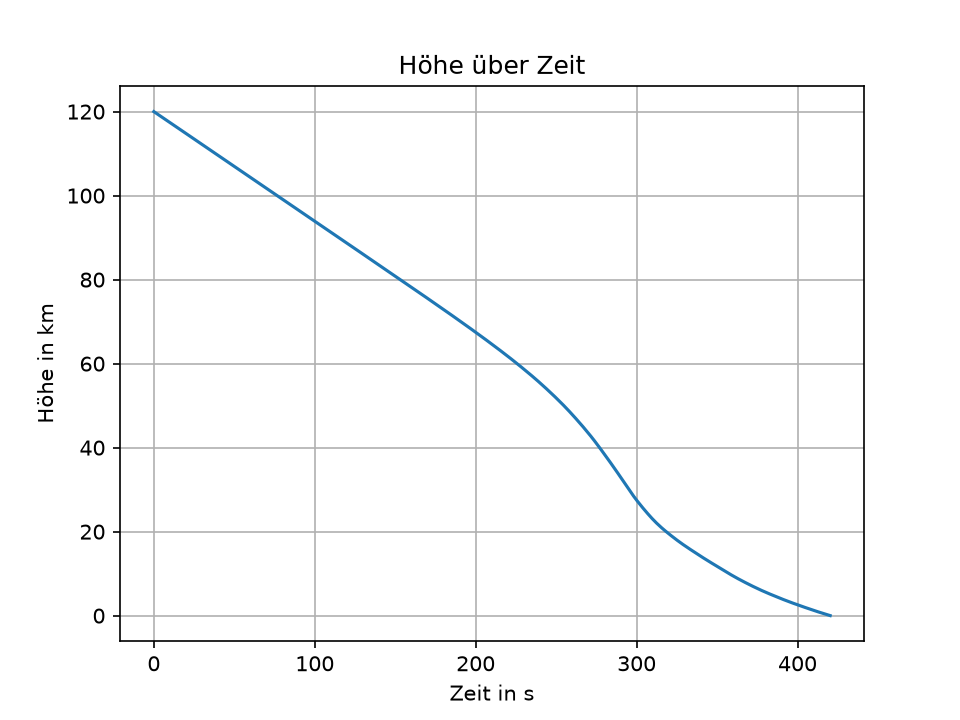
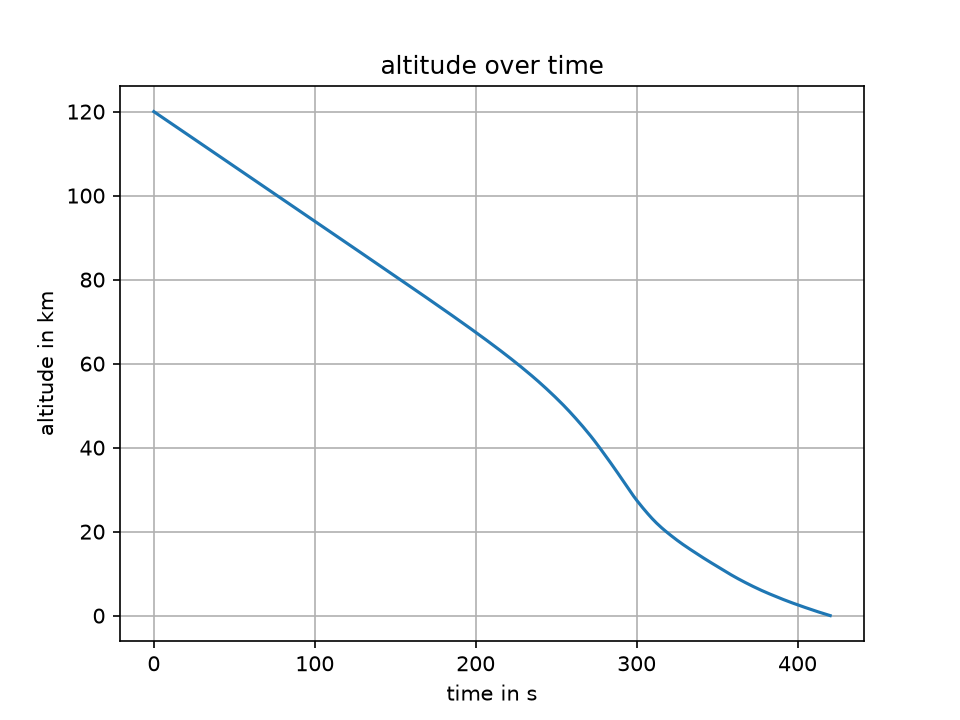
Add README, English plot labels, rename images

Changed region(s): [[0.4062, 0.0611, 0.625, 0.1222], [0.0312, 0.3972, 0.0625, 0.6111], [0.4688, 0.9472, 0.5625, 0.9778]]

diff --git a/titan/titan_auswerten.py b/titan/titan_auswerten.py
@@ -7,11 +7,11 @@ höhe = df["Altitude"] / 1000
 time = df["Time"]
 
 plt.plot(time, höhe)
-plt.xlabel("Zeit in s")
-plt.ylabel("Höhe in km")
-plt.title("Höhe über Zeit")
+plt.xlabel("time in s")
+plt.ylabel("altitude in km")
+plt.title("altitude over time")
 plt.grid(True)
-plt.savefig("Hoehe_ueber_zeit.png", dpi=150)
+plt.savefig("altitude_over_time.png", dpi=150)
 plt.show()
 
 
@@ -20,11 +20,10 @@ temperature = df["Temperature"]
 
 
 plt.plot(time, temperature)
-plt.axhline(906, color="red", linestyle="--", label="Schmelzpunkt")
-plt.xlabel("Zeiten [s]")
-plt.xlabel("Zeit in s")
-plt.ylabel("Temp in K")
-plt.title("temp über Zeit")
+plt.axhline(906, color="red", linestyle="--", label="Melting Point")
+plt.xlabel("time in s")
+plt.ylabel("temp in K")
+plt.title("temp over time")
 plt.grid(True)
 plt.legend()
 plt.savefig("Temperature_of_the_Monocoque_over_time.png", dpi=150)

diff --git a/README.md b/README.md
@@ -1,0 +1,75 @@
+# A Monocoque re-entering Earth's Atmosphere
+# A Test Run of CFD in OpenFOAM, DSMC with SPARTA and TITAN on a Formula Student Monocoque
+
+This is a simulation series to learn and understand different forms of fluid simulation methods.
+The study shows what happens to a monocoque on re-entry, where the limits of CFD are, where DSMC starts and how TITAN works with the combination of CFD and DSMC.
+The timeframe to conduct this project was 5 days, starting on Monday the 12th.
+
+![Mach number at 40 km](images/openfoam_racecar_mach.png)
+
+## Overview:
+
+1. Basics of OpenFOAM
+2. Simulating the Monocoque with OpenFOAM
+3. Simulating the Monocoque with SPARTA
+4. Simulating the trajectory with TITAN
+
+
+## 1 Basics of OpenFOAM
+To understand the basics of OpenFOAM, the test example wedge15 was simulated. The goal was to compare the theoretical shock angle of an oblique shock to the simulated one.
+In ParaView the angle was calculated to be 24.6 degrees. With the θ-β-M theory 24.3 degrees was calculated. That is just a 1% difference.
+
+## 2 Simulating the Monocoque with OpenFOAM at Mach 5 at 40 km altitude
+Then the monocoque was simulated in OpenFOAM. To simulate with a hypersonic free stream velocity, the ICAO standard atmosphere values were used.
+To mesh, the combination of blockMesh and snappyHexMesh was used to make a simple mesh of the bounding box and the monocoque. This was a half-car simulation to reduce the computational power. Overall it had 144k cells.
+After the first unsuccessful simulation attempt, the driver had to be removed from the monocoque.
+As a solver rhoCentralFoam was used. It had to be a first order simulation because of stability issues.
+Convergence was proven by plotting max p and min T in Python.
+It was verified with the Rayleigh–Pitot formula for the stagnation pressure behind a normal shock, which calculated a pressure of 9060 Pa at the nose. Measured with ParaView in my simulation there was a pressure of 9344 Pa, which comes up to a difference of 3%.
+Also the max temperature of 1688 K was compared to its theoretical max, the total temperature T₀ = 1506 K calculated with energy conservation. There a difference of 12% was found. That is a bit too large. My theory is that it is because of the coarse mesh at the nose. There are only 3 cells between the shock and the nose.
+
+## 3 Simulating the Monocoque with SPARTA at Mach 20 at 120 km altitude
+Here the values of the US Standard Atmosphere were used to simulate the environment.
+The Knudsen number of 1.2 was calculated. That means we are in the transitional regime. This means the Navier–Stokes equations are no longer valid and DSMC is the best method here.
+The gas that high in the atmosphere is N₂/O₂/O = 0.73/0.09/0.18.
+For the mesh, DSMC theory requires a dx smaller than λ/3, which in my case is 1.07 meters. That is too big to accurately resolve the monocoque. Therefore dx = 0.1 m was chosen.
+That meant there are 46200 cells. The time step had to be 4.44 µs.
+For 20 particles in each cell, Fnum had to be 2.55·10¹³.
+The simulation was then steady after 1000 steps. It was averaged over the last 1000 of the 2000 steps. Overall 100 samples were used.
+To verify the number of particles used, you can calculate that an empty box would have n · V / F_num = 926 000 particles. SPARTA used 914 613, a bit less because the monocoque can't have particles inside of it. The missing ~11 400 particles correspond to 11 400 · F_num / n = 0.57 m³, which is exactly the volume of the monocoque. That means the geometry and density are correct.
+The theoretical collision rate is c̄ · Δt / (2λ) ≈ 3.5·10⁻⁴. SPARTA calculated 4.3·10⁻⁴. Those numbers are in the same ballpark. That means all the inputs are coherent with what SPARTA calculated.
+To view it in ParaView, I have written a Python script with the help of AI to convert the text dump from SPARTA into VTK for ParaView.
+In the picture you can see a thicker, hotter region around the car and not a thin shock like in the OpenFOAM 40 km version.
+![Temperature at 120 km (DSMC)](images/sparta_120km_temperature.png)
+
+
+## 4 Simulating the re-entry trajectory with TITAN
+The start was at 120 km and 7500 m/s with an angle of -2 degrees. The material used for the monocoque was the TITAN test material 'Unittest', which is similar to aluminium but with a density of 1000 kg/m³.
+The result was the following: It reached the ground after about 420 s. The melting temperature was reached after 290 s.
+The mass changed from 549.9 to 498.9 kg. That means that 9% of the mass melted. That means that a real monocoque out of carbon fibre with way less mass and worse thermal capabilities would most likely not survive these thermal loads, because the resin itself would decompose at around 300 to 400 °C.
+
+![Altitude](images/titan_altitude.png) ![Temperature](images/titan_temperature.png)
+
+## Limitations
+For OpenFOAM, the Euler equations were used, where there is no friction and no thermal transfer.
+Because of one bad cell, a 1st order upwind scheme had to be used.
+Also the low resolution mesh at the nose resulted in a difference to the predicted calculated values.
+There are no chemical reactions calculated in both OpenFOAM and SPARTA, that is why T in the shock region is too large.
+In TITAN the monocoque was simulated using a solid block of aluminium, not a carbon fibre hollow monocoque.
+In TITAN a 0D thermal model was used, which means there is only one temperature in the whole body.
+Also no cases were compared to an experimental validation.
+
+## Next Steps
+Make the mesh around the nose finer to get a clearer bow shock and add friction and thermal transfer.
+Also one can do TITAN CFD and DSMC coupling.
+
+## The Repository
+Here you can find the three simulation setups for OpenFOAM, SPARTA and TITAN:
+- `openfoam/` – wedge15Ma5 and racecar_40km, plus `log_auswerten.py`
+- `sparta/` – racecar_120km input file, species data and `sparta2vtk.py`
+- `titan/` – `Rennwagen.txt` (TITAN configuration), result data and `titan_auswerten.py`
+- `images/` – all pictures used in this README
+
+Software: OpenFOAM v2012 (ESI), SPARTA (GitHub version, built with make mpi), TITAN (strath-ace, Python 3.10), ParaView 6.2.
+
+The geometry was left out on purpose as it is property of the Bremergy e.V. Formula Student Team.
